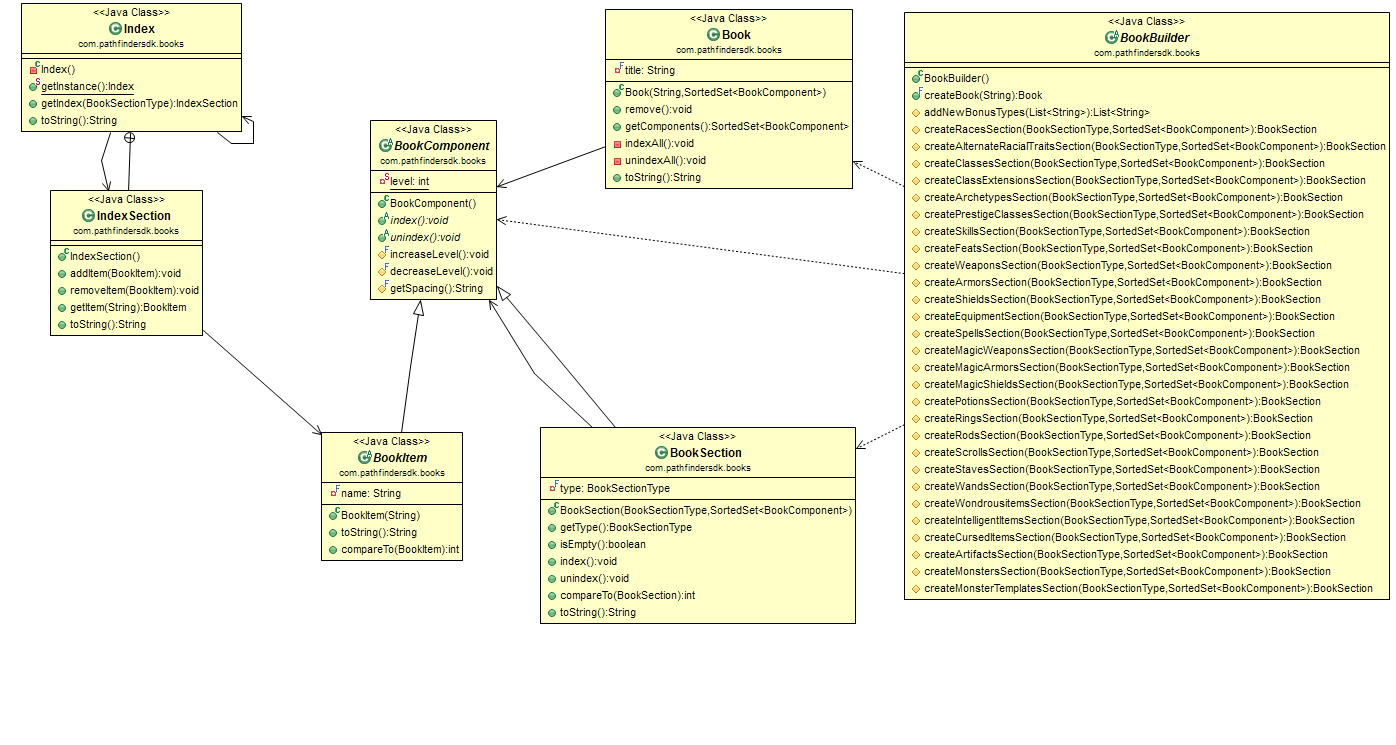
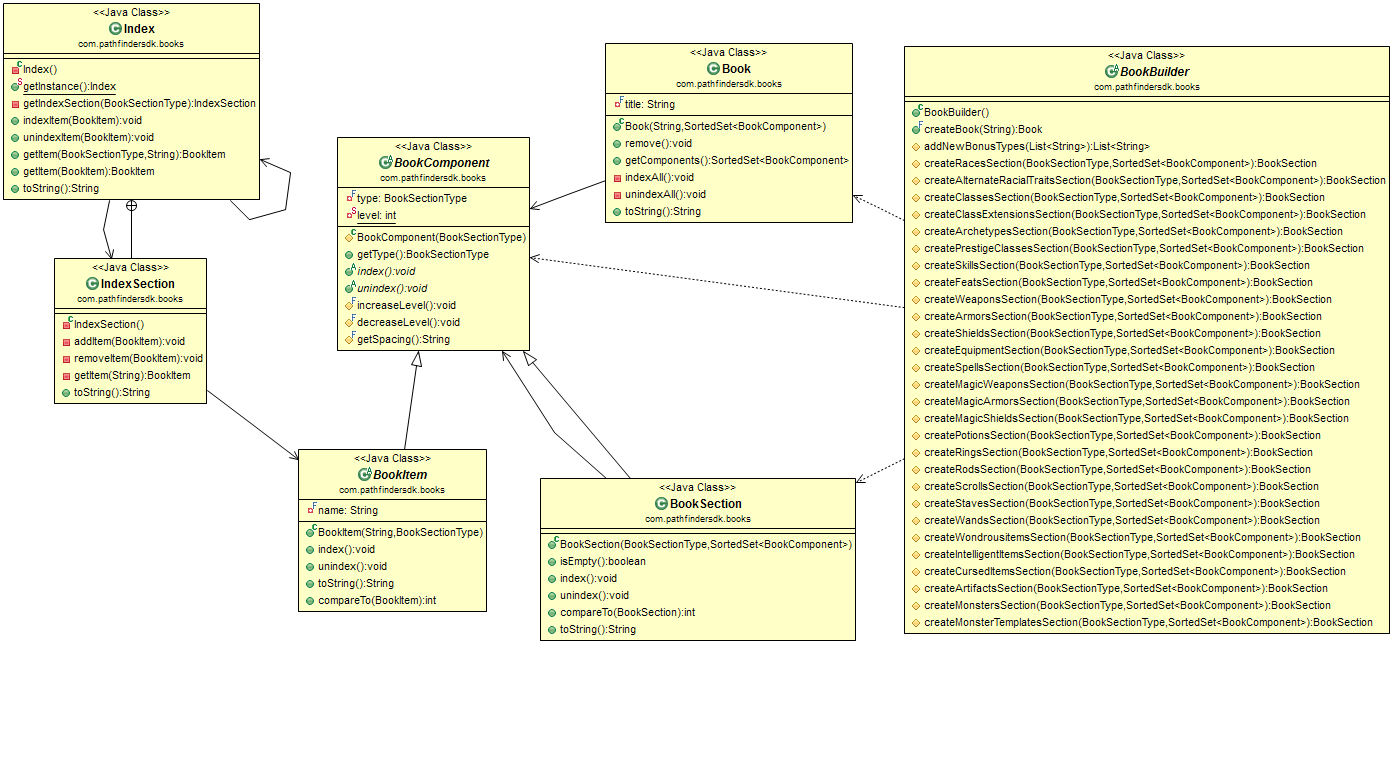
IndexSection is now hidden. All queries are made at the Index level.

Changed region(s): [[0.1848, 0.0, 1.0, 0.8644], [0.0, 0.0, 0.4004, 0.5248], [0.4312, 0.0, 0.616, 0.3087]]

diff --git a/src/com/pathfindersdk/books/Index.java b/src/com/pathfindersdk/books/Index.java
@@ -9,25 +9,25 @@ import com.pathfindersdk.utils.ArgChecker;
 
 final public class Index
 {
-  public class IndexSection
+  private class IndexSection
   {
     private Map<String, BookItem> itemMap = new HashMap<String, BookItem>();
     
-    public void addItem(BookItem item)
+    private void addItem(BookItem item)
     {
       ArgChecker.checkNotNull(item);
       
       itemMap.put(item.toString(), item);
     }
     
-    public void removeItem(BookItem item)
+    private void removeItem(BookItem item)
     {
       ArgChecker.checkNotNull(item);
       
       itemMap.remove(item.toString());
     }
 
-    public BookItem getItem(String name)
+    private BookItem getItem(String name)
     {
       ArgChecker.checkNotNull(name);
       
@@ -58,7 +58,7 @@ final public class Index
     return instance;
   }
   
-  public IndexSection getIndexSection(BookSectionType type)
+  private IndexSection getIndexSection(BookSectionType type)
   {
     ArgChecker.checkNotNull(type);
       
@@ -73,6 +73,20 @@ final public class Index
     }
     
     return section;
+  }
+  
+  public void indexItem(BookItem item)
+  {
+    ArgChecker.checkNotNull(item);
+    
+    getIndexSection(item.getType()).addItem(item);
+  }
+  
+  public void unindexItem(BookItem item)
+  {
+    ArgChecker.checkNotNull(item);
+    
+    getIndexSection(item.getType()).removeItem(item);
   }
   
   public BookItem getItem(BookSectionType type, String name)

diff --git a/src/com/pathfindersdk/books/BookItem.java b/src/com/pathfindersdk/books/BookItem.java
@@ -24,13 +24,13 @@ public abstract class BookItem extends BookComponent implements Comparable<BookI
   @Override
   public void index()
   {
-    Index.getInstance().getIndexSection(getType()).addItem(this);
+    Index.getInstance().indexItem(this);
   }
   
   @Override
   public void unindex()
   {
-    Index.getInstance().getIndexSection(getType()).removeItem(this);
+    Index.getInstance().unindexItem(this);
   }
   
   @Override
